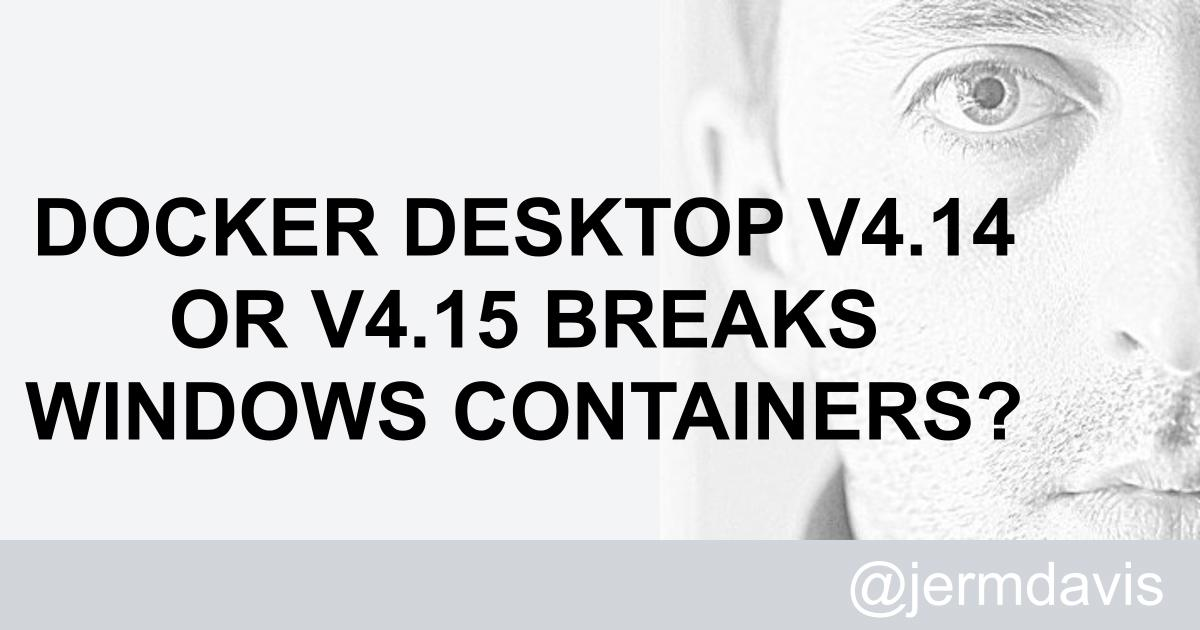
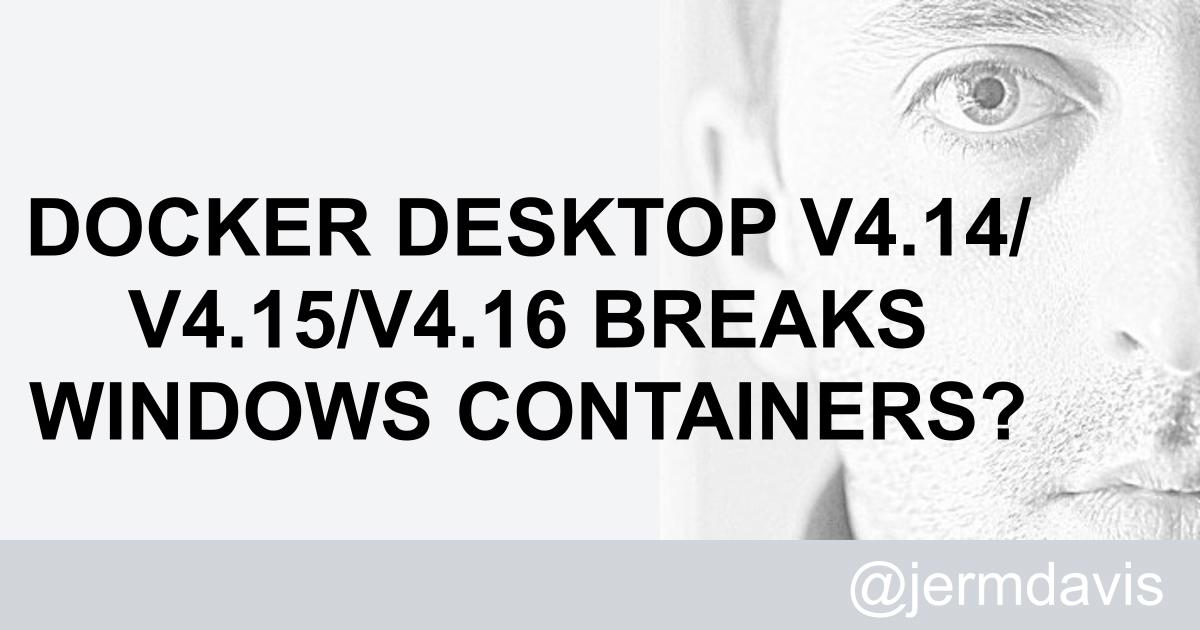
further tweak to the docker error post

Changed region(s): [[0.0, 0.3016, 0.8633, 0.4222], [0.0925, 0.4524, 0.7708, 0.573], [0.0, 0.6032, 0.8633, 0.6937]]

diff --git a/posts/2022/fix-broken-pipe-docker-engine-windows.html b/posts/2022/fix-broken-pipe-docker-engine-windows.html
@@ -5,12 +5,12 @@
 		<meta http-equiv="Content-Security-Policy" content="default-src 'self' 'unsafe-inline' 'unsafe-eval' www.youtube.com *.twitter.com unpkg.com www.googletagmanager.com *.google-analytics.com *.twimg.com; img-src 'self' data: *;style-src 'self' 'unsafe-inline' *.twitter.com *.twimg.com">
 		<meta name="viewport" content="width=device-width, initial-scale=1, shrink-to-fit=no">
 		<link rel="canonical" href="https://blog.jermdavis.dev/posts/2022/fix-broken-pipe-docker-engine-windows">
-		<meta name="description" content="Two approaches to fixing an issue with Docker Desktop v4.14/v4.15 where it complains ablout a missing named pipe">
-		<meta property="og:description" content="Two approaches to fixing an issue with Docker Desktop v4.14/v4.15 where it complains ablout a missing named pipe">
+		<meta name="description" content="Two approaches to fixing an issue with Docker Desktop v4.14/v4.15/v4.16 where it complains ablout a missing named pipe">
+		<meta property="og:description" content="Two approaches to fixing an issue with Docker Desktop v4.14/v4.15/v4.16 where it complains ablout a missing named pipe">
 		<meta name="keywords" content="Docker, Containers, Bug">
 		<meta name="author" content="Jeremy Davis">
 		<meta name="copyright" content="Jeremy Davis">
-		<title>Jeremy Davis - Docker Desktop v4.14 or v4.15 breaks Windows Containers?</title>
+		<title>Jeremy Davis - Docker Desktop v4.14/v4.15/v4.16 breaks Windows Containers?</title>
 		<meta name="robots" content="index, follow">
 		<link type="application/rss+xml" rel="alternate" title="Jeremy Davis - Sitecore, C# and web development" href="/feed.rss">
 		<link type="application/atom+xml" rel="alternate" title="Jeremy Davis - Sitecore, C# and web development" href="/feed.atom">
@@ -18,7 +18,7 @@
 		<meta name="msapplication-tooltip" content="Jeremy Davis">
 		<meta name="msapplication-starturl" content="/">
 		<link rel="manifest" href="/manifest.webmanifest">
-		<meta property="og:title" content="Jeremy Davis - Docker Desktop v4.14 or v4.15 breaks Windows Containers?">
+		<meta property="og:title" content="Jeremy Davis - Docker Desktop v4.14/v4.15/v4.16 breaks Windows Containers?">
 		<meta property="og:publish_date" content="2022-12-07T00:00:00+00:00">
 		<meta property="og:modified_date" content="2023-02-28T00:00:00+00:00">
 		<meta property="og:image" content="https://blog.jermdavis.dev/img/featured/fix-broken-pipe-docker-engine-windows-social.jpg?">
@@ -26,7 +26,7 @@
     {
         "@context": "https://schema.org",
         "@type": "Article",
-        "headline": "Docker Desktop v4.14 or v4.15 breaks Windows Containers?",
+        "headline": "Docker Desktop v4.14/v4.15/v4.16 breaks Windows Containers?",
         "image": [
             "https://blog.jermdavis.dev/img/featured/fix-broken-pipe-docker-engine-windows-social.jpg"
         ],
@@ -129,7 +129,7 @@
 					<tt>https://blog.jermdavis.dev/posts/2022/fix-broken-pipe-docker-engine-windows</tt>
 				</div>
 				<h1 class="text-5xl mb-4 pb-1">
-					Docker Desktop v4.14 or v4.15 breaks Windows Containers?
+					Docker Desktop v4.14/v4.15/v4.16 breaks Windows Containers?
 				</h1>
 				<h2 class="text-2xl">Do you have issues with the \\.\pipe\docker_engine_windows named pipe too?</h2>
 				<div class="meta">Published 07 December 2022</div>

diff --git a/page/24.html b/page/24.html
@@ -293,22 +293,6 @@
 								</div>
 								<div class="post-preview">
 									<h2 class="post-title">
-										<a href="/posts/2015/bonus-chatter-having-issues-with-lego-games">Bonus Chatter: Having issues with Lego&nbsp;games?</a>
-									</h2>
-									<div class="post-subtitle">
-										<i></i>
-									</div>
-									<p class="post-meta">
-										Published on 19 January 2015  (Updated 25 August 2016)
-									</p>
-									<p>My son loves the Lego-branded games available via Steam. He's a massive fan of the Lego versions of Batman, Marvel and the recent Lego Movie game. But as much as he loves them, as the owner of the computer he plays on, I've found them frustrating. You buy a game, download it, and it works fine for a while. But at some point all of these games have suffered from a problem where you stop being able to launch them. Having had to figure out solutions via Google to keep my son happy, I'm writing this down so I can remember it next time...</p>
-									<div class="flex py-1">
-										<a href="/tags/games/" class="p-1 mr-1 bg-gray-100 rounded-md">
-											Games</a>
-									</div>
-								</div>
-								<div class="post-preview">
-									<h2 class="post-title">
 										<a href="/posts/2015/gotchas-with-custom-apps-v2">Gotchas with custom apps, version&nbsp;2</a>
 									</h2>
 									<div class="post-subtitle">
@@ -327,6 +311,22 @@
 											Sitecore</a>
 										<a href="/tags/ui/" class="p-1 mr-1 bg-gray-100 rounded-md">
 											UI</a>
+									</div>
+								</div>
+								<div class="post-preview">
+									<h2 class="post-title">
+										<a href="/posts/2015/bonus-chatter-having-issues-with-lego-games">Bonus Chatter: Having issues with Lego&nbsp;games?</a>
+									</h2>
+									<div class="post-subtitle">
+										<i></i>
+									</div>
+									<p class="post-meta">
+										Published on 19 January 2015  (Updated 25 August 2016)
+									</p>
+									<p>My son loves the Lego-branded games available via Steam. He's a massive fan of the Lego versions of Batman, Marvel and the recent Lego Movie game. But as much as he loves them, as the owner of the computer he plays on, I've found them frustrating. You buy a game, download it, and it works fine for a while. But at some point all of these games have suffered from a problem where you stop being able to launch them. Having had to figure out solutions via Google to keep my son happy, I'm writing this down so I can remember it next time...</p>
+									<div class="flex py-1">
+										<a href="/tags/games/" class="p-1 mr-1 bg-gray-100 rounded-md">
+											Games</a>
 									</div>
 								</div>
 								<div class="flex">

diff --git a/posts/2015-01.html b/posts/2015-01.html
@@ -157,22 +157,6 @@
 					</div>
 					<div class="post-preview">
 						<h2 class="post-title">
-							<a href="/posts/2015/bonus-chatter-having-issues-with-lego-games">Bonus Chatter: Having issues with Lego&nbsp;games?</a>
-						</h2>
-						<div class="post-subtitle">
-							<i></i>
-						</div>
-						<p class="post-meta">
-							Published on 19 January 2015  (Updated 25 August 2016)
-						</p>
-						<p>My son loves the Lego-branded games available via Steam. He's a massive fan of the Lego versions of Batman, Marvel and the recent Lego Movie game. But as much as he loves them, as the owner of the computer he plays on, I've found them frustrating. You buy a game, download it, and it works fine for a while. But at some point all of these games have suffered from a problem where you stop being able to launch them. Having had to figure out solutions via Google to keep my son happy, I'm writing this down so I can remember it next time...</p>
-						<div class="flex py-1">
-							<a href="/tags/games/" class="p-1 mr-1 bg-gray-100 rounded-md">
-								Games</a>
-						</div>
-					</div>
-					<div class="post-preview">
-						<h2 class="post-title">
 							<a href="/posts/2015/gotchas-with-custom-apps-v2">Gotchas with custom apps, version&nbsp;2</a>
 						</h2>
 						<div class="post-subtitle">
@@ -191,6 +175,22 @@
 								Sitecore</a>
 							<a href="/tags/ui/" class="p-1 mr-1 bg-gray-100 rounded-md">
 								UI</a>
+						</div>
+					</div>
+					<div class="post-preview">
+						<h2 class="post-title">
+							<a href="/posts/2015/bonus-chatter-having-issues-with-lego-games">Bonus Chatter: Having issues with Lego&nbsp;games?</a>
+						</h2>
+						<div class="post-subtitle">
+							<i></i>
+						</div>
+						<p class="post-meta">
+							Published on 19 January 2015  (Updated 25 August 2016)
+						</p>
+						<p>My son loves the Lego-branded games available via Steam. He's a massive fan of the Lego versions of Batman, Marvel and the recent Lego Movie game. But as much as he loves them, as the owner of the computer he plays on, I've found them frustrating. You buy a game, download it, and it works fine for a while. But at some point all of these games have suffered from a problem where you stop being able to launch them. Having had to figure out solutions via Google to keep my son happy, I'm writing this down so I can remember it next time...</p>
+						<div class="flex py-1">
+							<a href="/tags/games/" class="p-1 mr-1 bg-gray-100 rounded-md">
+								Games</a>
 						</div>
 					</div>
 					<div class="post-preview">

diff --git a/index.html b/index.html
@@ -30,7 +30,7 @@
 		<link href="/scss/site-theme.css" rel="stylesheet">
 		<script src="/vendor/Cookies/cookies.min.js" defer=""></script>
 		
-		<!-- 28/02/2023 14:57:04 -->
+		<!-- 28/02/2023 20:34:06 -->
 	</head>
 	<body class="max-w-7xl mx-auto text-black">
 		<div class="relative bg-white" x-data="{ open: false }">
@@ -249,7 +249,7 @@
 								</div>
 								<div class="post-preview">
 									<h2 class="post-title">
-										<a href="/posts/2022/fix-broken-pipe-docker-engine-windows">Docker Desktop v4.14 or v4.15 breaks Windows Containers?</a>
+										<a href="/posts/2022/fix-broken-pipe-docker-engine-windows">Docker Desktop v4.14/v4.15/v4.16 breaks Windows Containers?</a>
 									</h2>
 									<div class="post-subtitle">
 										<i>Do you have issues with the \\.\pipe\docker_engine_windows named pipe too?</i>

diff --git a/tags/bug/index.html b/tags/bug/index.html
@@ -121,7 +121,7 @@
 							<div class="col-md-6 right-border col-sm-height">
 								<div class="post-preview">
 									<h2 class="post-title">
-										<a href="/posts/2022/fix-broken-pipe-docker-engine-windows">Docker Desktop v4.14 or v4.15 breaks Windows Containers?</a>
+										<a href="/posts/2022/fix-broken-pipe-docker-engine-windows">Docker Desktop v4.14/v4.15/v4.16 breaks Windows Containers?</a>
 									</h2>
 									<div class="post-subtitle">
 										<i>Do you have issues with the \\.\pipe\docker_engine_windows named pipe too?</i>

diff --git a/tags/containers/index.html b/tags/containers/index.html
@@ -142,7 +142,7 @@
 								</div>
 								<div class="post-preview">
 									<h2 class="post-title">
-										<a href="/posts/2022/fix-broken-pipe-docker-engine-windows">Docker Desktop v4.14 or v4.15 breaks Windows Containers?</a>
+										<a href="/posts/2022/fix-broken-pipe-docker-engine-windows">Docker Desktop v4.14/v4.15/v4.16 breaks Windows Containers?</a>
 									</h2>
 									<div class="post-subtitle">
 										<i>Do you have issues with the \\.\pipe\docker_engine_windows named pipe too?</i>

diff --git a/tags/docker/index.html b/tags/docker/index.html
@@ -142,7 +142,7 @@
 								</div>
 								<div class="post-preview">
 									<h2 class="post-title">
-										<a href="/posts/2022/fix-broken-pipe-docker-engine-windows">Docker Desktop v4.14 or v4.15 breaks Windows Containers?</a>
+										<a href="/posts/2022/fix-broken-pipe-docker-engine-windows">Docker Desktop v4.14/v4.15/v4.16 breaks Windows Containers?</a>
 									</h2>
 									<div class="post-subtitle">
 										<i>Do you have issues with the \\.\pipe\docker_engine_windows named pipe too?</i>

diff --git a/posts/2022-12.html b/posts/2022-12.html
@@ -141,7 +141,7 @@
 					</div>
 					<div class="post-preview">
 						<h2 class="post-title">
-							<a href="/posts/2022/fix-broken-pipe-docker-engine-windows">Docker Desktop v4.14 or v4.15 breaks Windows Containers?</a>
+							<a href="/posts/2022/fix-broken-pipe-docker-engine-windows">Docker Desktop v4.14/v4.15/v4.16 breaks Windows Containers?</a>
 						</h2>
 						<div class="post-subtitle">
 							<i>Do you have issues with the \\.\pipe\docker_engine_windows named pipe too?</i>
